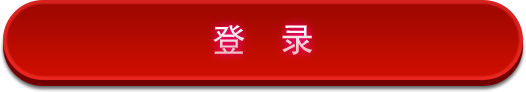
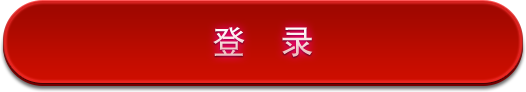
login button

diff --git a/src/app/component/login/login.component.scss b/src/app/component/login/login.component.scss
@@ -25,40 +25,42 @@
 }
 
 #account-container {
-  background-image: url('/assets/imgs/picIdFrame.png');
+  background-image: url('/assets/imgs/picIdFrame@2x.png');
+  background-size: 100%100%;
+  background-repeat: no-repeat;
   height: 45px;
   width: 265px;
+  #account {
+    height: 45px;
+    width: 265px;
+
+    background: none;
+    border: rgb(115 132 214);
+    border-radius: 22.5px;
+    outline: none;
+    text-indent: 57.5px;
+  }
 }
 
-#account {
-  height: 45px;
-  width: 265px;
 
-  background: none;
-  border: rgb(115 132 214);
-  border-radius: 22.5px;
-  outline: none;
-  text-indent: 57.5px;
-
-}
 
 #password-container {
-  background-image: url('/assets/imgs/picPasswordFrame.png');
+  background-image: url('/assets/imgs/picPasswordFrame@2x.png');
+  background-size: 100%100%;
+  background-repeat: no-repeat;
   height: 45px;
   width: 265px;
+  #password {
+    height: 45px;
+    width: 265px;
+
+    background: none;
+    border: rgb(115 132 214);
+    border-radius: 22.5px;
+    outline: none;
+    text-indent: 57.5px;
+  }
 }
-
-#password {
-  height: 45px;
-  width: 265px;
-
-  background: none;
-  border: rgb(115 132 214);
-  border-radius: 22.5px;
-  outline: none;
-  text-indent: 57.5px;
-}
-
 
 #password::placeholder,#account::placeholder{
   color: white;
@@ -78,18 +80,19 @@
   align-items : flex-end;
   align-content: flex-end;
   justify-content: center;
+  &:hover {
+    cursor: pointer;
+  }
+  img {
+    width: 263px;
+    height: 46px;
+  }
 }
-#loginBtn:hover {
-  cursor:pointer;
-}
-
-// button:active #changeBtn{
-//   content: url("/assets/imgs/btnLoginPressed.png");
-//   margin-top:1px;
-// }
 
 .remember-checkbox {
-  background: url('/assets/imgs/picRememberFrame.png') no-repeat;
+  background: url('/assets/imgs/picRememberFrame@2x.png') no-repeat;
+  background-size: 100%100%;
+  background-repeat: no-repeat;
   height: 20px;
   width: 20px;
 
@@ -98,19 +101,21 @@
   flex-direction: row;
   justify-content: center;
   align-content: center;
+  vertical-align: middle;
 
-  vertical-align: middle
+  #check-img {
+    width: 12px;
+    height: 9px;
+    margin-top: 3px;
+  }
 }
 
-#check-img {
 
-  width: 12px;
-  padding-top: 3px;
-}
 
 #lang-bg {
-  background: url('/assets/imgs/picLanMenuBg.png');
+  background: url('/assets/imgs/picLanMenuBg@2x.png');
   background-size: 100%100%;
+  background-repeat: no-repeat;
 
   background-repeat: no-repeat;
   justify-content: flex-start;
@@ -148,13 +153,16 @@
   margin: 2px;
   min-height: 26px;
   &:hover {
-    background: url('/assets/imgs/picLanMenuSelect.png');
+    background: url('/assets/imgs/picLanMenuSelect@2x.png');
+    background-size: 100%100%;
+    background-repeat: no-repeat;
+  }
+  .langFlag {
+    margin-left: 2px;
   }
 }
 
-.langFlag {
-  margin-left: 2px;
-}
+
 
 #langPopup {
   position: absolute;top: 20%;

diff --git a/src/app/component/login/login.component.html b/src/app/component/login/login.component.html
@@ -86,7 +86,7 @@
     <div class="row-flex">
       <div class="column-flex" >
         <button id="loginBtn" (click)="login()" >
-          <img id="changeBtn"
+          <img alt="Login"
           [src]="'login.loginbtn' | translate"
           (mousedown)="$event.currentTarget.src=translate.instant('login.loginbtnpressed')"
           (mouseup)="$event.currentTarget.src=translate.instant('login.loginbtn')"
